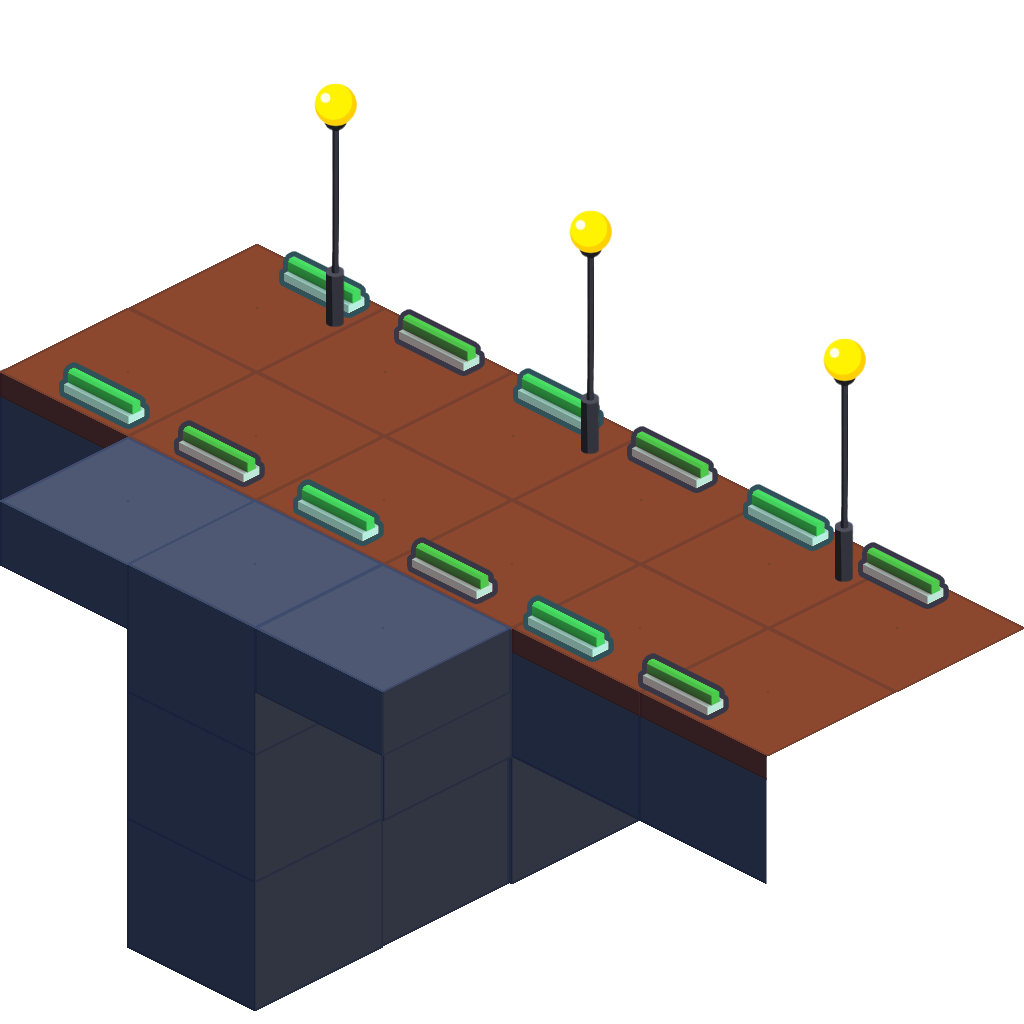
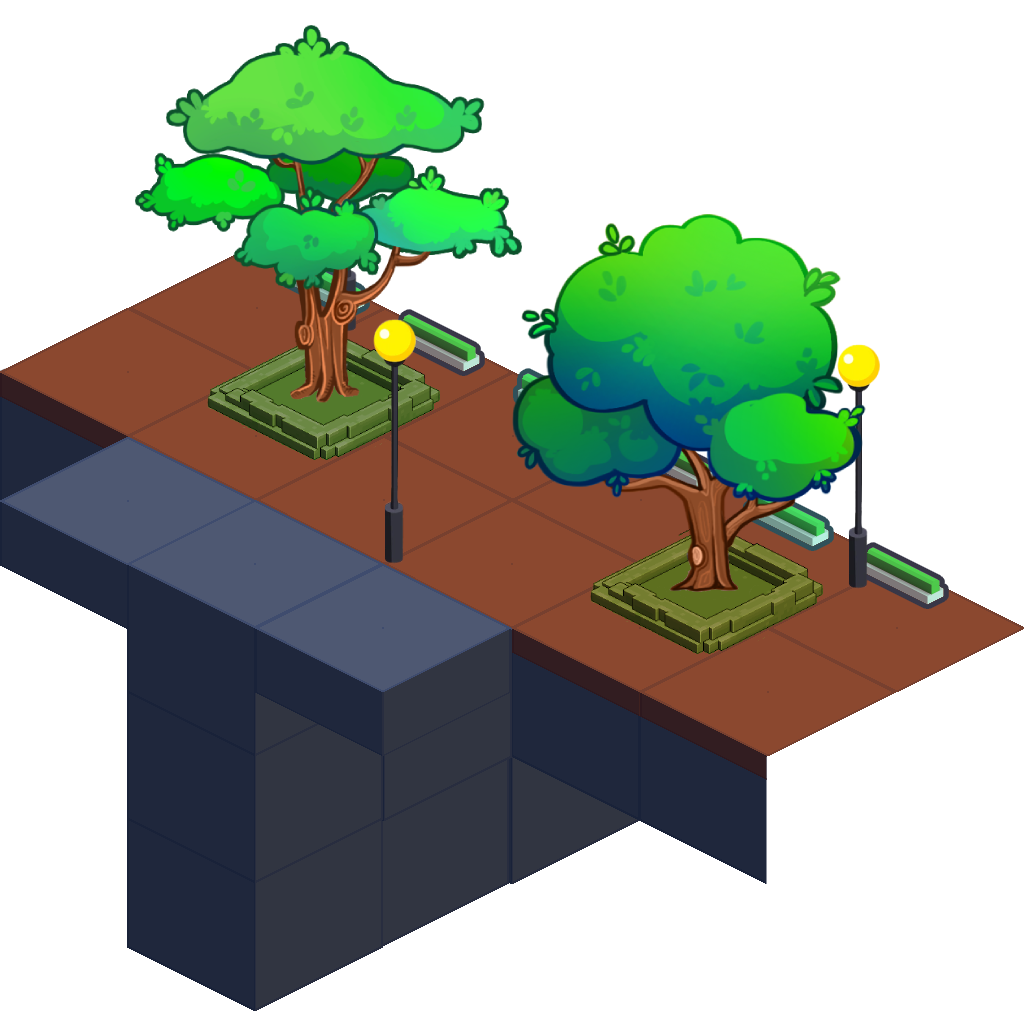
fixed road side graphics

Changed region(s): [[0.0625, 0.0312, 0.875, 0.7188]]

diff --git a/src/scenes/GameScene.ts b/src/scenes/GameScene.ts
@@ -480,198 +480,198 @@ export class GameScene extends Container implements IScene {
 
 	//#region Trees
 
-	private treeXyAdjustment: number = 90;
+	//private treeXyAdjustment: number = 90;
 
-	private treeSizeWidth: number = 340;
-	private treeSizeHeight: number = 340;
+	//private treeSizeWidth: number = 340;
+	//private treeSizeHeight: number = 340;
 
-	private treeBottomGameObjects: Array<GameObjectContainer> = [];
-	private treeTopGameObjects: Array<GameObjectContainer> = [];
+	//private treeTopGameObjects: Array<GameObjectContainer> = [];
+	//private treeBottomGameObjects: Array<GameObjectContainer> = [];
 
-	private treePopDelayDefault: number = 70 / Constants.DEFAULT_CONSTRUCT_DELTA;
-	private treePopDelayTop: number = 17.5;
-	private treePopDelayBottom: number = 16;
+	//private treePopDelayDefault: number = 70 / Constants.DEFAULT_CONSTRUCT_DELTA;
+	//private treePopDelayTop: number = 17.5;
+	//private treePopDelayBottom: number = 16;
 
-	private spawnTreesTop() {
+	//private spawnTreesTop() {
 
-		for (let j = 0; j < 3; j++) {
+	//	for (let j = 0; j < 3; j++) {
 
-			const gameObject: GameObjectContainer = new GameObjectContainer(Constants.DEFAULT_CONSTRUCT_SPEED);
-			gameObject.disableRendering();
+	//		const gameObject: GameObjectContainer = new GameObjectContainer(Constants.DEFAULT_CONSTRUCT_SPEED);
+	//		gameObject.disableRendering();
 
-			for (let i = 0; i < 5; i++) {
+	//		for (let i = 0; i < 5; i++) {
 
-				const sprite: GameObjectSprite = new GameObjectSprite(Constants.getRandomTexture(ConstructType.ROAD_SIDE_TREE));
+	//			const sprite: GameObjectSprite = new GameObjectSprite(Constants.getRandomTexture(ConstructType.ROAD_SIDE_TREE));
 
-				sprite.x = this.treeSizeWidth * i + (this.treeXyAdjustment * i);
-				sprite.y = (this.treeSizeHeight / 2) * i + ((this.treeXyAdjustment / 2) * i);
-				sprite.width = this.treeSizeWidth;
-				sprite.height = this.treeSizeHeight;
+	//			sprite.x = this.treeSizeWidth * i + (this.treeXyAdjustment * i);
+	//			sprite.y = (this.treeSizeHeight / 2) * i + ((this.treeXyAdjustment / 2) * i);
+	//			sprite.width = this.treeSizeWidth;
+	//			sprite.height = this.treeSizeHeight;
 
-				gameObject.addChild(sprite);
-			}
+	//			gameObject.addChild(sprite);
+	//		}
 
-			this.treeTopGameObjects.push(gameObject);
-			this.sceneContainer.addChild(gameObject);
-		}
-	}
+	//		this.treeTopGameObjects.push(gameObject);
+	//		this.sceneContainer.addChild(gameObject);
+	//	}
+	//}
 
-	private spawnTreesBottom() {
+	//private spawnTreesBottom() {
 
-		for (let j = 0; j < 3; j++) {
+	//	for (let j = 0; j < 3; j++) {
 
-			const gameObject: GameObjectContainer = new GameObjectContainer(Constants.DEFAULT_CONSTRUCT_SPEED);
-			gameObject.disableRendering();
+	//		const gameObject: GameObjectContainer = new GameObjectContainer(Constants.DEFAULT_CONSTRUCT_SPEED);
+	//		gameObject.disableRendering();
 
-			for (let i = 0; i < 5; i++) {
+	//		for (let i = 0; i < 5; i++) {
 
-				const sprite: GameObjectSprite = new GameObjectSprite(Constants.getRandomTexture(ConstructType.ROAD_SIDE_TREE));
+	//			const sprite: GameObjectSprite = new GameObjectSprite(Constants.getRandomTexture(ConstructType.ROAD_SIDE_TREE));
 
-				sprite.x = this.treeSizeWidth * i + (this.treeXyAdjustment * i);
-				sprite.y = (this.treeSizeHeight / 2) * i + ((this.treeXyAdjustment / 2) * i);
-				sprite.width = this.treeSizeWidth;
-				sprite.height = this.treeSizeHeight;
+	//			sprite.x = this.treeSizeWidth * i + (this.treeXyAdjustment * i);
+	//			sprite.y = (this.treeSizeHeight / 2) * i + ((this.treeXyAdjustment / 2) * i);
+	//			sprite.width = this.treeSizeWidth;
+	//			sprite.height = this.treeSizeHeight;
 
-				gameObject.addChild(sprite);
-			}
+	//			gameObject.addChild(sprite);
+	//		}
 
-			this.treeBottomGameObjects.push(gameObject);
-			this.sceneContainer.addChild(gameObject);
-		}
-	}
+	//		this.treeBottomGameObjects.push(gameObject);
+	//		this.sceneContainer.addChild(gameObject);
+	//	}
+	//}
 
-	private generateTreesTop() {
-		this.treePopDelayTop -= 0.1;
+	//private generateTreesTop() {
+	//	this.treePopDelayTop -= 0.1;
 
-		if (this.treePopDelayTop < 0) {
+	//	if (this.treePopDelayTop < 0) {
 
-			var gameObject = this.treeTopGameObjects.find(x => x.isAnimating == false);
+	//		var gameObject = this.treeTopGameObjects.find(x => x.isAnimating == false);
 
-			if (gameObject) {
-				gameObject.setPosition(-1090, gameObject.height * -1);
-				gameObject.enableRendering();
-				this.treePopDelayTop = this.treePopDelayDefault;
-			}
-		}
-	}
+	//		if (gameObject) {
+	//			gameObject.setPosition(-1090, gameObject.height * -1);
+	//			gameObject.enableRendering();
+	//			this.treePopDelayTop = this.treePopDelayDefault;
+	//		}
+	//	}
+	//}
 
-	private generateTreesBottom() {
-		this.treePopDelayBottom -= 0.1;
+	//private generateTreesBottom() {
+	//	this.treePopDelayBottom -= 0.1;
 
-		if (this.treePopDelayBottom < 0) {
+	//	if (this.treePopDelayBottom < 0) {
 
-			var gameObject = this.treeBottomGameObjects.find(x => x.isAnimating == false);
+	//		var gameObject = this.treeBottomGameObjects.find(x => x.isAnimating == false);
 
-			if (gameObject) {
-				gameObject.setPosition(gameObject.width * -1, -770);
-				gameObject.enableRendering();
-				this.treePopDelayBottom = this.treePopDelayDefault;
-			}
-		}
-	}
+	//		if (gameObject) {
+	//			gameObject.setPosition(gameObject.width * -1, -770);
+	//			gameObject.enableRendering();
+	//			this.treePopDelayBottom = this.treePopDelayDefault;
+	//		}
+	//	}
+	//}
 
-	private animateTreesTop() {
+	//private animateTreesTop() {
 
-		var animatingTrees = this.treeTopGameObjects.filter(x => x.isAnimating == true);
+	//	var animatingTrees = this.treeTopGameObjects.filter(x => x.isAnimating == true);
 
-		if (animatingTrees) {
+	//	if (animatingTrees) {
 
-			animatingTrees.forEach(gameObject => {
-				gameObject.moveDownRight();
+	//		animatingTrees.forEach(gameObject => {
+	//			gameObject.moveDownRight();
 
-				if (gameObject.x - gameObject.width / 2 > Constants.DEFAULT_GAME_VIEW_WIDTH || gameObject.y > Constants.DEFAULT_GAME_VIEW_HEIGHT) {
-					gameObject.disableRendering();
-				}
-			});
-		}
-	}
+	//			if (gameObject.x - gameObject.width / 2 > Constants.DEFAULT_GAME_VIEW_WIDTH || gameObject.y > Constants.DEFAULT_GAME_VIEW_HEIGHT) {
+	//				gameObject.disableRendering();
+	//			}
+	//		});
+	//	}
+	//}
 
-	private animateTreesBottom() {
+	//private animateTreesBottom() {
 
-		var animatingTrees = this.treeBottomGameObjects.filter(x => x.isAnimating == true);
+	//	var animatingTrees = this.treeBottomGameObjects.filter(x => x.isAnimating == true);
 
-		if (animatingTrees) {
+	//	if (animatingTrees) {
 
-			animatingTrees.forEach(gameObject => {
-				gameObject.moveDownRight();
+	//		animatingTrees.forEach(gameObject => {
+	//			gameObject.moveDownRight();
 
-				if (gameObject.x - gameObject.width / 2 > Constants.DEFAULT_GAME_VIEW_WIDTH || gameObject.y - gameObject.height / 2 > Constants.DEFAULT_GAME_VIEW_HEIGHT) {
-					gameObject.disableRendering();
-				}
-			});
-		}
-	}
+	//			if (gameObject.x - gameObject.width / 2 > Constants.DEFAULT_GAME_VIEW_WIDTH || gameObject.y - gameObject.height / 2 > Constants.DEFAULT_GAME_VIEW_HEIGHT) {
+	//				gameObject.disableRendering();
+	//			}
+	//		});
+	//	}
+	//}
 
 	//#endregion
 
 	//#region Lamps
 
-	private lampXyAdjustment: number = 197;
+	//private lampXyAdjustment: number = 197;
 
-	private lampSizeWidth: number = 750;
-	private lampSizeHeight: number = 750;
+	//private lampSizeWidth: number = 750;
+	//private lampSizeHeight: number = 750;
 
-	private lampTopGameObjects: Array<GameObjectContainer> = [];
+	//private lampTopGameObjects: Array<GameObjectContainer> = [];
 
-	private lampPopDelayDefault: number = 93 / Constants.DEFAULT_CONSTRUCT_DELTA;
-	private lampPopDelayTop: number = 7;
+	//private lampPopDelayDefault: number = 93 / Constants.DEFAULT_CONSTRUCT_DELTA;
+	//private lampPopDelayTop: number = 7;
 
-	private spawnLampsTop() {
+	//private spawnLampsTop() {
 
-		for (let j = 0; j < 5; j++) {
+	//	for (let j = 0; j < 5; j++) {
 
-			const gameObject: GameObjectContainer = new GameObjectContainer(Constants.DEFAULT_CONSTRUCT_SPEED);
-			gameObject.disableRendering();
+	//		const gameObject: GameObjectContainer = new GameObjectContainer(Constants.DEFAULT_CONSTRUCT_SPEED);
+	//		gameObject.disableRendering();
 
-			for (let i = 0; i < 5; i++) {
+	//		for (let i = 0; i < 5; i++) {
 
-				const sprite: GameObjectSprite = new GameObjectSprite(Constants.getRandomTexture(ConstructType.ROAD_SIDE_LAMP));
+	//			const sprite: GameObjectSprite = new GameObjectSprite(Constants.getRandomTexture(ConstructType.ROAD_SIDE_LAMP));
 
-				sprite.x = (this.lampSizeWidth * i - (this.lampXyAdjustment * i));
-				sprite.y = ((this.lampSizeWidth / 2) * i - ((this.lampXyAdjustment / 2) * i));
-				sprite.width = this.lampSizeWidth;
-				sprite.height = this.lampSizeHeight;
+	//			sprite.x = (this.lampSizeWidth * i - (this.lampXyAdjustment * i));
+	//			sprite.y = ((this.lampSizeWidth / 2) * i - ((this.lampXyAdjustment / 2) * i));
+	//			sprite.width = this.lampSizeWidth;
+	//			sprite.height = this.lampSizeHeight;
 
-				gameObject.addChild(sprite);
-			}
+	//			gameObject.addChild(sprite);
+	//		}
 
-			this.lampTopGameObjects.push(gameObject);
-			this.sceneContainer.addChild(gameObject);
-		}
-	}
+	//		this.lampTopGameObjects.push(gameObject);
+	//		this.sceneContainer.addChild(gameObject);
+	//	}
+	//}
 
-	private generateLampsTop() {
+	//private generateLampsTop() {
 
-		this.lampPopDelayTop -= 0.1;
+	//	this.lampPopDelayTop -= 0.1;
 
-		if (this.lampPopDelayTop < 0) {
+	//	if (this.lampPopDelayTop < 0) {
 
-			var gameObject = this.lampTopGameObjects.find(x => x.isAnimating == false);
+	//		var gameObject = this.lampTopGameObjects.find(x => x.isAnimating == false);
 
-			if (gameObject) {
-				gameObject.setPosition((gameObject.width * -1), (gameObject.height * -1) - 280);
-				gameObject.enableRendering();
-				this.lampPopDelayTop = this.lampPopDelayDefault;
-			}
-		}
-	}
+	//		if (gameObject) {
+	//			gameObject.setPosition((gameObject.width * -1), (gameObject.height * -1) - 280);
+	//			gameObject.enableRendering();
+	//			this.lampPopDelayTop = this.lampPopDelayDefault;
+	//		}
+	//	}
+	//}
 
-	private animateLampsTop() {
+	//private animateLampsTop() {
 
-		var animatingLamps = this.lampTopGameObjects.filter(x => x.isAnimating == true);
+	//	var animatingLamps = this.lampTopGameObjects.filter(x => x.isAnimating == true);
 
-		if (animatingLamps) {
+	//	if (animatingLamps) {
 
-			animatingLamps.forEach(gameObject => {
-				gameObject.moveDownRight();
+	//		animatingLamps.forEach(gameObject => {
+	//			gameObject.moveDownRight();
 
-				if (gameObject.x > Constants.DEFAULT_GAME_VIEW_WIDTH || gameObject.y > Constants.DEFAULT_GAME_VIEW_HEIGHT) {
-					gameObject.disableRendering();
+	//			if (gameObject.x > Constants.DEFAULT_GAME_VIEW_WIDTH || gameObject.y > Constants.DEFAULT_GAME_VIEW_HEIGHT) {
+	//				gameObject.disableRendering();
 
-				}
-			});
-		}
-	}
+	//			}
+	//		});
+	//	}
+	//}
 
 	//#endregion
 
@@ -3749,8 +3749,8 @@ export class GameScene extends Container implements IScene {
 		this.spawnRoadMarks();
 
 		this.spawnSideWalksTop();
-		this.spawnTreesTop();
-		this.spawnLampsTop();
+		//this.spawnTreesTop();
+		//this.spawnLampsTop();
 
 		this.spawnVehicleEnemys();
 		this.spawnVehicleBosss();
@@ -3762,7 +3762,7 @@ export class GameScene extends Container implements IScene {
 
 		this.spawnSmokeExplosions();
 		this.spawnPlayerHonkBombs();
-		this.spawnTreesBottom();
+		//this.spawnTreesBottom();
 
 		this.spawnPlayerRockets();
 		this.spawnPlayerRocketBullsEyes();
@@ -3798,10 +3798,8 @@ export class GameScene extends Container implements IScene {
 		if (!this.anyInAirBossExists()) {
 			this.generateRoadMarks();
 			this.generateSideWalksTop();
-			//this.generateLightBillboardsTop();
-			//this.generateHedgesTop();
-			this.generateTreesTop();
-			this.generateLampsTop();
+			//this.generateTreesTop();
+			//this.generateLampsTop();
 		}
 
 		this.generateVehicleEnemys();
@@ -3828,9 +3826,7 @@ export class GameScene extends Container implements IScene {
 
 		if (!this.anyInAirBossExists()) {
 			this.generateSideWalksBottom();
-			//this.generateHedgesBottom();
-			//this.generateLightBillboardsBottom();
-			this.generateTreesBottom();
+			//this.generateTreesBottom();
 			//this.generateLampsBottom();
 		}
 	}
@@ -3841,10 +3837,8 @@ export class GameScene extends Container implements IScene {
 			this.animateRoadMarks();
 
 			this.animateSideWalksTop();
-			//this.animateHedgesTop();
-			this.animateTreesTop();
-			//this.animateLightBillboardsTop();
-			this.animateLampsTop();
+			//this.animateTreesTop();			
+			//this.animateLampsTop();
 		}
 
 		this.animateVehicleEnemys();
@@ -3854,11 +3848,8 @@ export class GameScene extends Container implements IScene {
 		this.animateHonks();
 
 		if (!this.anyInAirBossExists()) {
-			this.animateSideWalksBottom();
-			//this.animateHedgesBottom();
-			this.animateTreesBottom();
-			//this.animateLightBillboardsBottom();
-			//this.animateLampsBottom();
+			this.animateSideWalksBottom();			
+			//this.animateTreesBottom();
 		}
 
 		this.animatePlayerHonkBombs();
